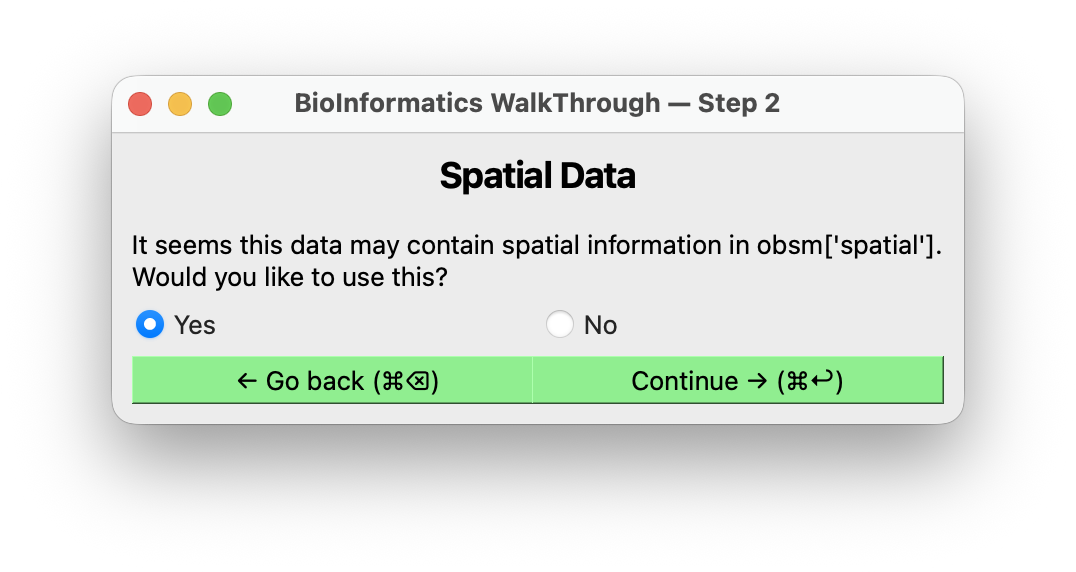
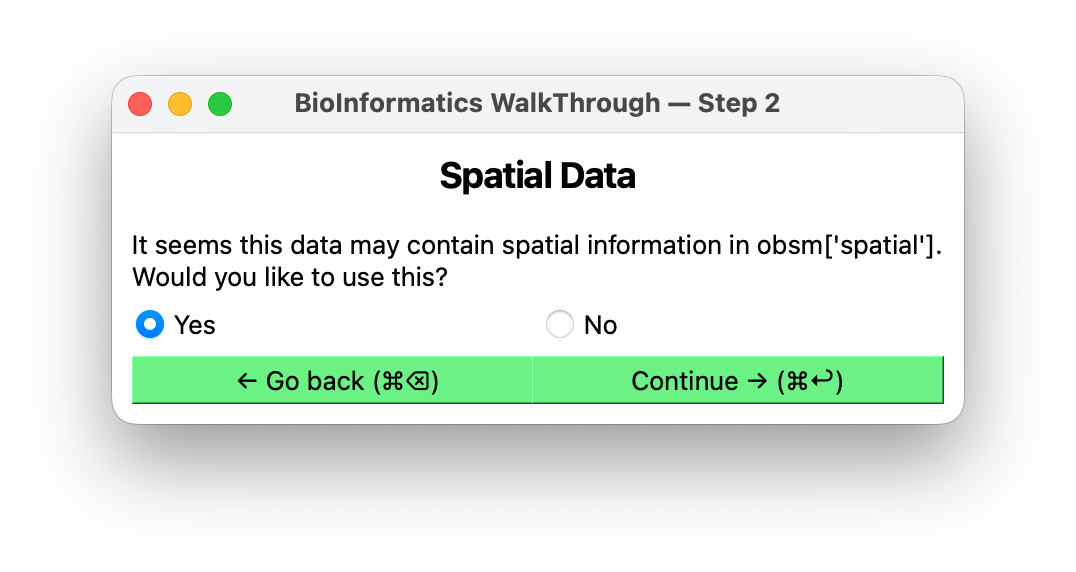
Reshoot the screenshots for 0.5.0
Normalized per the note in progress.md: the longest side capped at 1600 with
sips, then Display P3 converted to sRGB rather than relabelled -- these are
shots of a Qt UI specified in sRGB, so a P3 tag is the one case where the
pixels are genuinely wrong. 4481K -> 3676K.

The note's trap bit once more, from the other side. cell-counts-confluence
was 1604 wide, four pixels over, and resizing it *grew* the file 296K -> 349K
for a 4px trim. The cap earns its keep on a real overshoot -- the two
positions shots came down 38% and 41% from 2528 -- and costs on a marginal
one, so that file kept its dimensions and took the profile conversion only.

Three new pictures for the cell-parameters screen, which had none: the empty
state, every type matched from two libraries, and one type set to (none).
The matched one is shot with two libraries deliberately, since a single
library drops the source column that picture exists to show.

The launcher now carries the widget's title onto the window that wraps it.
Without that the frame showed the QMainWindow's own empty title, which is
why the import shot has a blank title bar.

diff --git a/scripts/screenshot_host.py b/scripts/screenshot_host.py
@@ -56,8 +56,13 @@ def main(argv=None) -> int:
                                     units="micron"),
     )
 
+    widget = create_biwt_widget(biwt_input, on_complete=on_complete)
     window = QMainWindow()
-    window.setCentralWidget(create_biwt_widget(biwt_input, on_complete=on_complete))
+    # The widget titles itself, but wrapping it in a QMainWindow means the frame
+    # shows the *window's* title — blank unless it is carried across, which left
+    # the import screenshot with an empty title bar.
+    window.setWindowTitle(widget.windowTitle())
+    window.setCentralWidget(widget)
     window.resize(1100, 820)
     window.show()
     return app.exec_()

diff --git a/docs/guide/cell-parameters.md b/docs/guide/cell-parameters.md
@@ -15,6 +15,13 @@ leaves every type unassigned; so does picking `(none)` for individual types.
 That said, this is where a table of positions becomes a runnable model. Positions say where
 cells are; parameters say what they do.
 
+<figure markdown>
+  ![The cell-parameters screen with no template libraries loaded](../assets/screenshots/templates-no-libraries.png)
+  <figcaption>With nothing loaded, every type sits on <strong>(none)</strong> and the actions that
+  need a library are disabled. This is a complete, valid answer — <strong>Continue</strong> and
+  <strong>Skip</strong> both hand back an empty set.</figcaption>
+</figure>
+
 ## Where the templates come from
 
 **BIWT ships none.** It is host-agnostic, and a phenotype block only means something to a
@@ -66,6 +73,14 @@ similarity match, preferring the host's own cell types where both name it equall
 that, whatever is named `default`: the host's if it has one, else the library's. Failing that,
 `(none)`.
 
+<figure markdown>
+  ![Every cell type matched to a template, two libraries loaded](../assets/screenshots/templates-auto-matched.png)
+  <figcaption>Two libraries loaded, every type matched by name. The file each template came from
+  is right-aligned in its own column, so the sources line up down the list rather than trailing
+  each name. With a single library loaded the column is dropped — there is nothing to tell
+  apart.</figcaption>
+</figure>
+
 Three actions redo that for you, each with the same icon in two places: the **Set all** row at the
 top applies it to every cell type, the small button beside a dropdown to that type alone.
 
@@ -77,6 +92,12 @@ top applies it to every cell type, the small button beside a dropdown to that ty
 | ![circular arrow](../assets/icons/action_auto_match.svg){ width="20" } | **Auto-match** | Re-runs the matching above, overriding your picks |
 | ![house in a circle](../assets/icons/action_default_template.svg){ width="20" } | **Assign default** | Assigns whatever is named `default` — the host's, else the library's |
 | ![slashed circle](../assets/icons/action_no_template.svg){ width="20" } | **Assign (none)** | Clears the assignment |
+
+<figure markdown>
+  ![One cell type set to (none) while the others keep their templates](../assets/screenshots/templates-tumor-none.png)
+  <figcaption><strong>(none)</strong> on one type only. Unassigned types are simply absent from
+  the result, so this is how you hand back some templates and not others.</figcaption>
+</figure>
 
 If two sources offer the same name — `tumor` in one library and `Tumor` in another, or one of them
 the host's own cell type — that row is marked with an **ⓘ**. Hover it to see who else defines the
